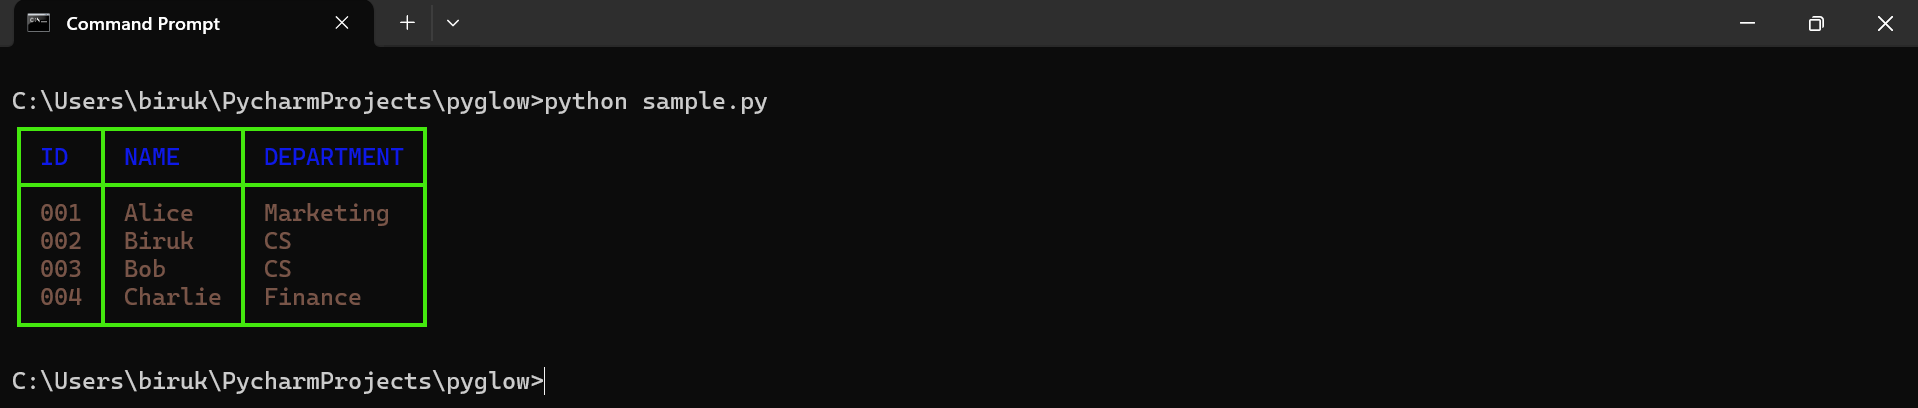
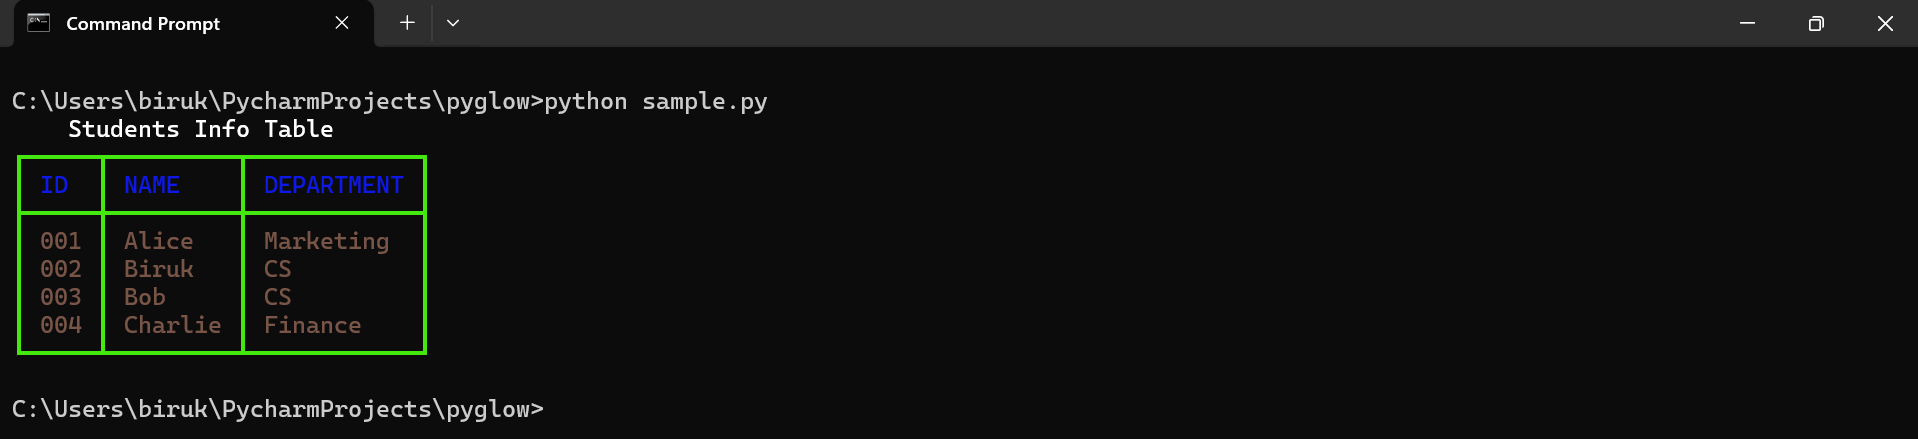
Fixed table title issue

diff --git a/pyglow/views/table.py b/pyglow/views/table.py
@@ -14,7 +14,7 @@ class Table:
                  header_color="#2196F3",
                  row_colors=None):
         self.title = title
-        self.title_color = hex_to_rgb(title_color)
+        self.title_color = hex_to_foreground(title_color)
         self.border_color = hex_to_foreground(border_color)
         self.header_color = hex_to_foreground(header_color)
 
